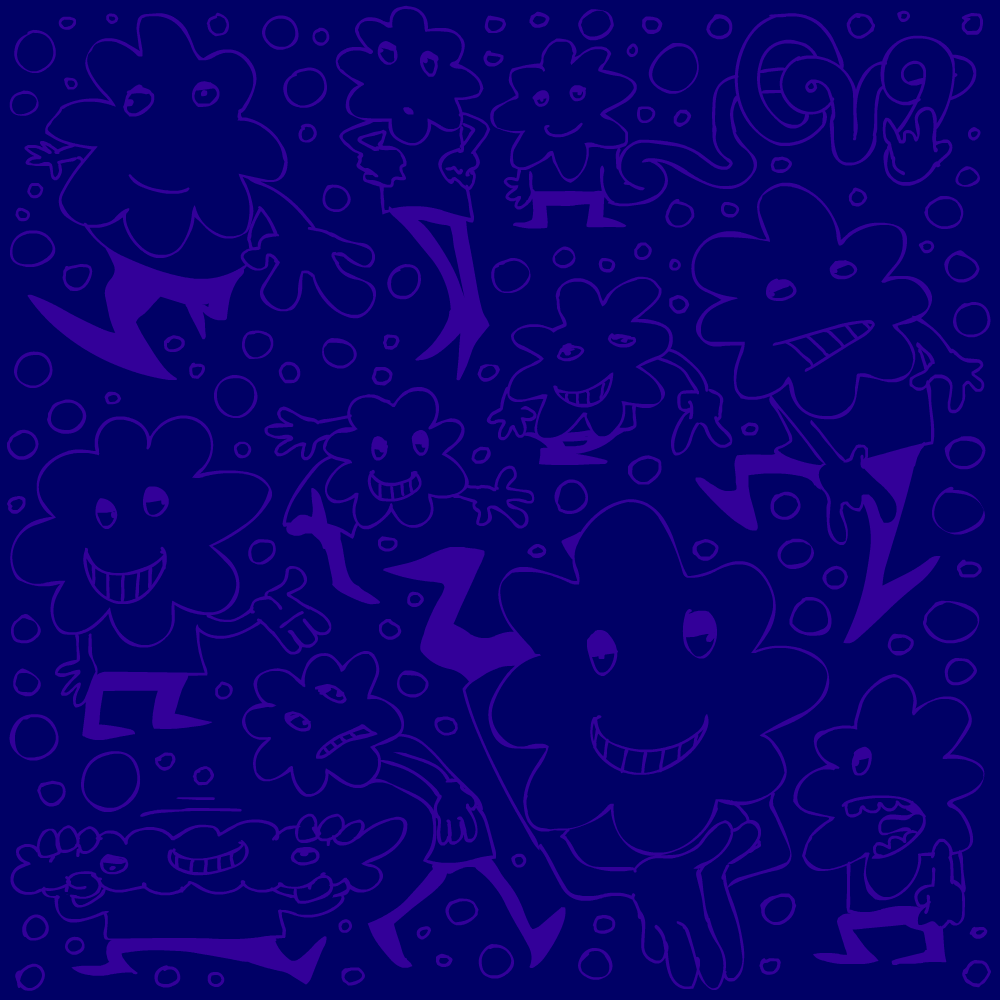
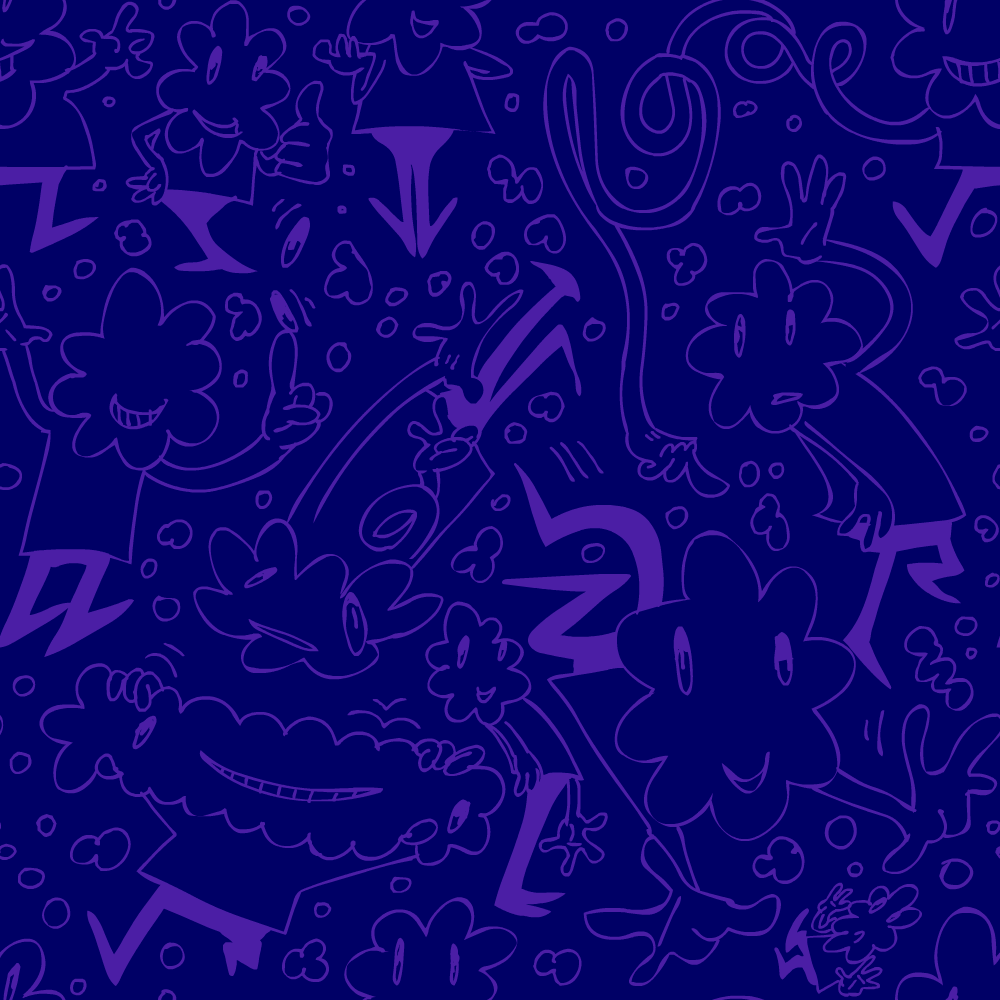
new assets and general update

diff --git a/index.html b/index.html
@@ -9,11 +9,11 @@
         {
             display: block;
             flex-direction: column;
-            
+
             align-items: center;
             height: 100vh;
             margin: 0;
-            font-family: "Comic Sans MS", "Comic Sans", cursive;
+            font-family: "Arial";
             text-align: center;
             background-image: url("background.png");
             background-repeat: repeat;
@@ -27,45 +27,116 @@
             }
             100%
             {
-                background-position: 600px 600px;
+                background-position: 1000px 1000px;
             }
+        }
+        .character
+        {
+            user-select: none;
+            -webkit-user-select: none;
+            -webkit-user-drag: none;
+            -khtml-user-select: none;
+            -moz-user-select: none;
+            -ms-user-select: none;
+            width: 40%;
+            height: auto;
+        }
+        .smallercharacter
+        {
+            user-select: none;
+            -webkit-user-select: none;
+            -webkit-user-drag: none;
+            -khtml-user-select: none;
+            -moz-user-select: none;
+            -ms-user-select: none;
+            width: 15%;
+            height: 15%;
+            object-fit: scale-down;
+        }
+        a:link {
+            color: #FFCC00;
+            background-color: transparent;
+            text-decoration: none;
+        }
+        a:visited {
+            color: #FFCC00;
+            background-color: transparent;
+            text-decoration: none;
+        }
+         a:hover {
+            color: #FF5D20;
+            background-color: transparent;
+            text-decoration: underline;
+        }
+        a:active {
+            color: #FFCC00;
+            background-color: transparent;
+            text-decoration: underline;
         }
     </style>
 </head>
 <body text="white">
 <body>
-<h1>welcome to targetbuldoser's website! (portfolio)</h1>
-<h3>hi, im targetbuldoser.<br>
-      i am an animator, artist, coder for gamemaker studio 2, and a musician.<br>
-      here are examples of my work:</h3>
-    <p>&nbsp;</p>
+<h1>hi. im targetbuldoser.</h1>
 <p>&nbsp;</p>
-<iframe width="560" height="315" src="https://www.youtube.com/embed/b8u4WP9ICdY?si=RNB_HO9ypbVXUVmL" title="YouTube video player" frameborder="0" allow="accelerometer; autoplay; clipboard-write; encrypted-media; gyroscope; picture-in-picture; web-share" referrerpolicy="strict-origin-when-cross-origin" allowfullscreen></iframe>
-<h3>a song remix for a project called "Ruby Racecar", formerly known as "Ruby the Racist" (has nothing to do with racism its just the title)<br>
-      features visuals, art and music done by me</h3>
+<img src="/targethi.png" class="character"></img>
 <p>&nbsp;</p>
-<iframe width="560" height="315" src="https://www.youtube.com/embed/q455WldTAA4?si=QbC1AQ5kwta4AACn" title="YouTube video player" frameborder="0" allow="accelerometer; autoplay; clipboard-write; encrypted-media; gyroscope; picture-in-picture; web-share" referrerpolicy="strict-origin-when-cross-origin" allowfullscreen></iframe>
-<h3>a part of a reanimation collab for "BFDI:TPOT 14: I SAID CAREFUL!!!".<br>
-      features animation done by me. audio from jacknjellify's tpot.<br>
-      p.s. the audio &amp; camera is sadly broken</h3>
 <p>&nbsp;</p>
-<iframe width="560" height="315" src="https://www.youtube.com/embed/SzX1c_R9Wsw?si=1m3ymM5MXyQ_Wr_B" title="YouTube video player" frameborder="0" allow="accelerometer; autoplay; clipboard-write; encrypted-media; gyroscope; picture-in-picture; web-share" referrerpolicy="strict-origin-when-cross-origin" allowfullscreen></iframe>
-    <h3>an animation test using audio from ""Weird Al" Yankovic - Polkamania! (Official Music Video)".<br>
-      features animation done by me. audio from previously mentioned polkamania<br>
-      p.s. i got the audio &amp; camera to work this time</h3>
+<h3>i draw, animate, do music, and code. to be more clear:</h3>
+<h4>
+    most of my drawings and animations are made in adobe animate 2018, although for drawing varies.
+    <br>my music is made in fl studio.
+    <br>i code in gamemaker studio 2, or gml. know a little bit of lua.
+    <br>if i do editing for a video, i tend to use davinci resolve. maybe after effects.
+</h4>
 <p>&nbsp;</p>
-<iframe width="560" height="315" src="https://www.youtube.com/embed/9Clv3WtWaFg?si=7p8wD4iUxbIEpRRO" title="YouTube video player" frameborder="0" allow="accelerometer; autoplay; clipboard-write; encrypted-media; gyroscope; picture-in-picture; web-share" referrerpolicy="strict-origin-when-cross-origin" allowfullscreen></iframe>
-    <h3>an animation test mainly for walk cycle and impact frame purposes<br>
-      features animation done by me. music is "inn main theme" from miitopia ost<br>
 <p>&nbsp;</p>
-<iframe width="560" height="315" src="https://www.youtube.com/embed/PrmMGOuyMTQ?si=THX_xYh-fq9sqvUg" title="YouTube video player" frameborder="0" allow="accelerometer; autoplay; clipboard-write; encrypted-media; gyroscope; picture-in-picture; web-share" referrerpolicy="strict-origin-when-cross-origin" allowfullscreen></iframe>
-    <h3>a short looping gif featuring my character "chalky"<br>
-      features animation done by me. music is "character creation" from miitopia ost<br>
+<img src="/targetstuff.png" class="character"></img>
 <p>&nbsp;</p>
-    <iframe width="560" height="315" src="https://www.youtube.com/embed/2mhGMtUg8bk?si=s5PFi8JaWaXHABoY" title="YouTube video player" frameborder="0" allow="accelerometer; autoplay; clipboard-write; encrypted-media; gyroscope; picture-in-picture; web-share" referrerpolicy="strict-origin-when-cross-origin" allowfullscreen></iframe>
-    <h3>a remake of a game "weenie cop" from scratch.<br>
-      features coding and special effects done by me. assets are taken from weenie cop + custom made. music taken from a sound library.</h3>
-    <p>&nbsp;</p>
+<p>&nbsp;</p>
+<iframe width="560" height="315" src="https://www.youtube.com/embed/GSArJIEMQDc?si=1Qx_P3nf-6vE7sZ_" title="YouTube video player" frameborder="0" allow="accelerometer; autoplay; clipboard-write; encrypted-media; gyroscope; picture-in-picture; web-share" referrerpolicy="strict-origin-when-cross-origin" allowfullscreen></iframe>
+<h3>a 30 sec animation of 2 characters</h3>
+<h4>
+    featuring chalky and crayon
+    <br>audio from <a href="https://youtu.be/BDWoZ3Gg29w">royco cup a soup</a>
+</h4>
+<p>&nbsp;</p>
+<iframe width="560" height="315" src="https://www.youtube.com/embed/-VkwX7BYCpU?si=U8yj6cA8Uob9WC84" title="YouTube video player" frameborder="0" allow="accelerometer; autoplay; clipboard-write; encrypted-media; gyroscope; picture-in-picture; web-share" referrerpolicy="strict-origin-when-cross-origin" allowfullscreen></iframe>
+<h3>a 30 sec animation of a character dancing</h3>
+<h4>
+    featuring chalky
+    <br>audio from <a href="https://youtu.be/BDWoZ3Gg29w">spongebob's "stadium rave"</a>
+</h4>
+<p>&nbsp;</p>
+<iframe width="560" height="315" src="https://www.youtube.com/embed/videoseries?si=vWVeMr3hj2lLnC4F&amp;list=PLjhW7e-gh3BfMBSn1A26ffwW5n-5d9bI0" title="YouTube video player" frameborder="0" allow="accelerometer; autoplay; clipboard-write; encrypted-media; gyroscope; picture-in-picture; web-share" referrerpolicy="strict-origin-when-cross-origin" allowfullscreen></iframe>
+<h3>4 animations to celebrate the birhtdays of my friends</h3>
+<h4>
+    featuring <a href="https://www.youtube.com/channel/UCxrxcyLzbS9PVnXvmQUrLZg">street friends</a>
+    <br>each animation is about 1 minute
+    <br>in ascending order by date
+</h4>
+<p>&nbsp;</p>
+<iframe width="560" height="315" src="https://www.youtube.com/embed/tEsWNW_fpkM?si=fyvQhLnJdIL0bHiu" title="YouTube video player" frameborder="0" allow="accelerometer; autoplay; clipboard-write; encrypted-media; gyroscope; picture-in-picture; web-share" referrerpolicy="strict-origin-when-cross-origin" allowfullscreen></iframe>
+<h3>10 seconds of some nerd talking</h3>
+<h4>
+    featuring the one and only <a href="https://www.youtube.com/channel/UC-i3xSAcFuqq4zXmNYLZUdw">animator320</a>
+    <br>audio is from <a href="https://youtu.be/DmrjddulTAA">cartoon mania - slapstick</a>
+</h4>
+<p>&nbsp;</p>
+<iframe width="560" height="315" src="https://www.youtube.com/embed/SzX1c_R9Wsw?si=6IkQKDckU_SHfmwK" title="YouTube video player" frameborder="0" allow="accelerometer; autoplay; clipboard-write; encrypted-media; gyroscope; picture-in-picture; web-share" referrerpolicy="strict-origin-when-cross-origin" allowfullscreen></iframe>
+<h3>10 seconds of a frog dancing</h3>
+<h4>
+    featuring foley and todd
+    <br>this is a pretty old animation so its less superior than others
+    <br>audio is from <a href="https://youtu.be/y0ZoX4dBvwk?t=146">weird al's "polkamania!"</a>
+</h4>
+<p>&nbsp;</p>
+<p>&nbsp;</p>
+<h1>there's more where all of those came from!</h1>
+<p>&nbsp;</p>
+<img src="/targetsocials.png" class="character"></img>
+<p>&nbsp;</p>
+<p>&nbsp;</p>
 <form action="https://www.youtube.com/channel/UCTD4qb3HiL1EWDVbKXFB69A">
       <input type="submit" value="youtube"/>
     </form>
@@ -112,8 +183,7 @@
 <h5>&nbsp;</h5>
 <h5>&nbsp;</h5>
 <h5>&nbsp;</h5>
-    <h5>haha made u look</h5>
-<h3>&nbsp;</h3>
+<img src="/targetend.png" class="smallercharacter"></img>
 </body>
 </html>
 
